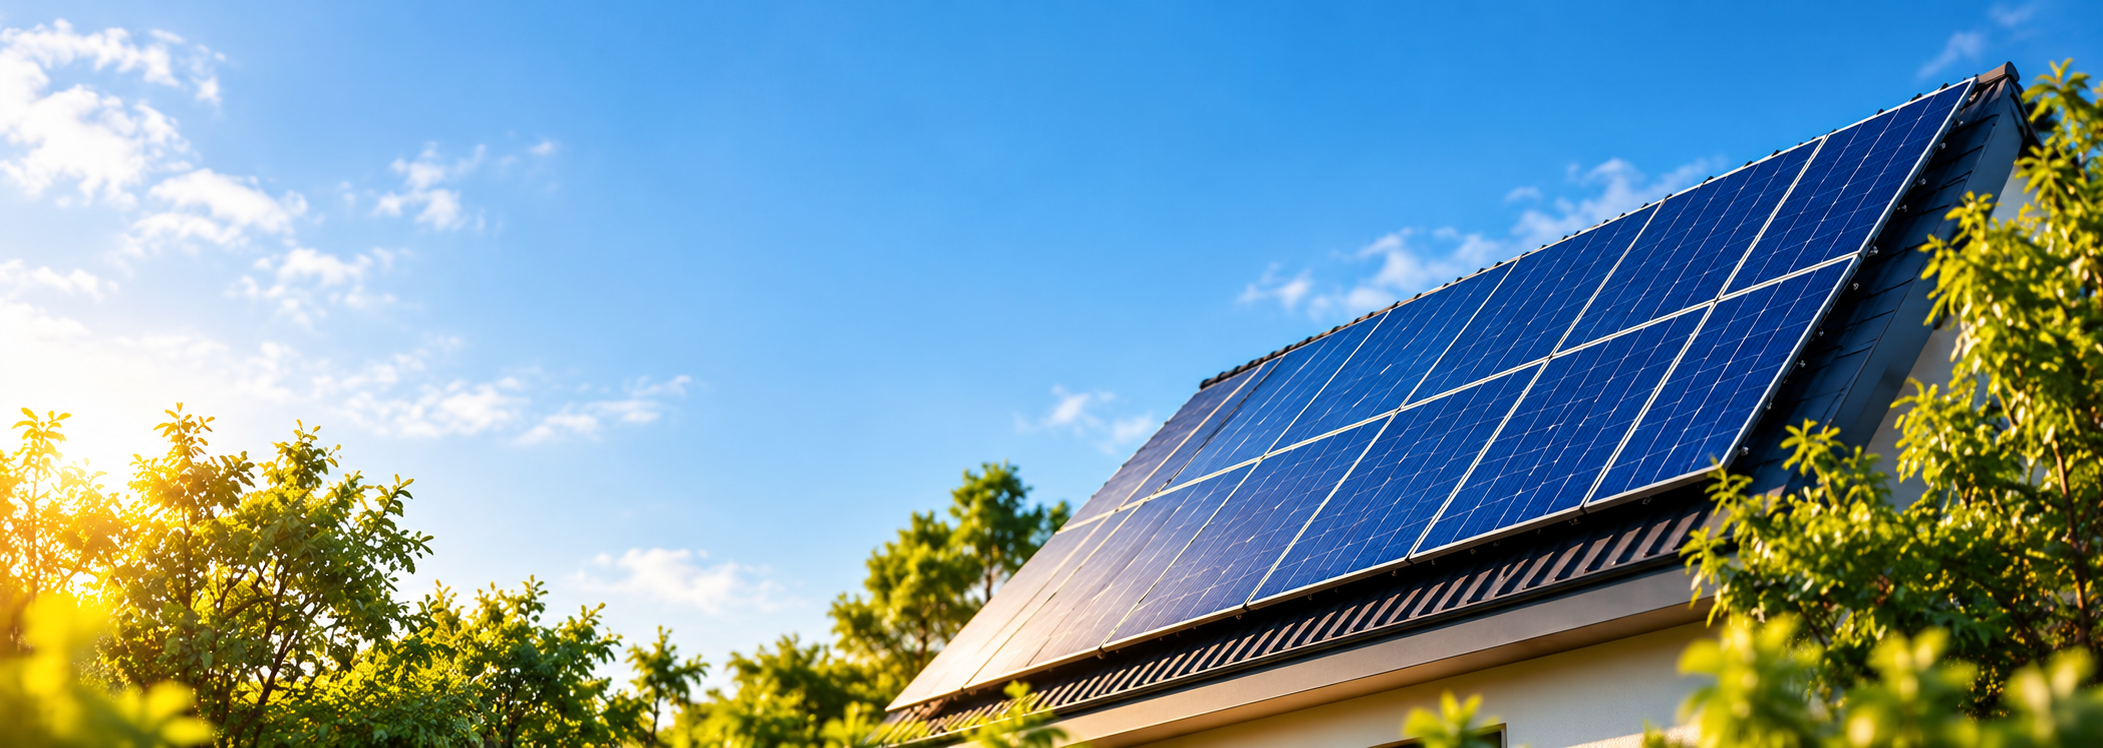
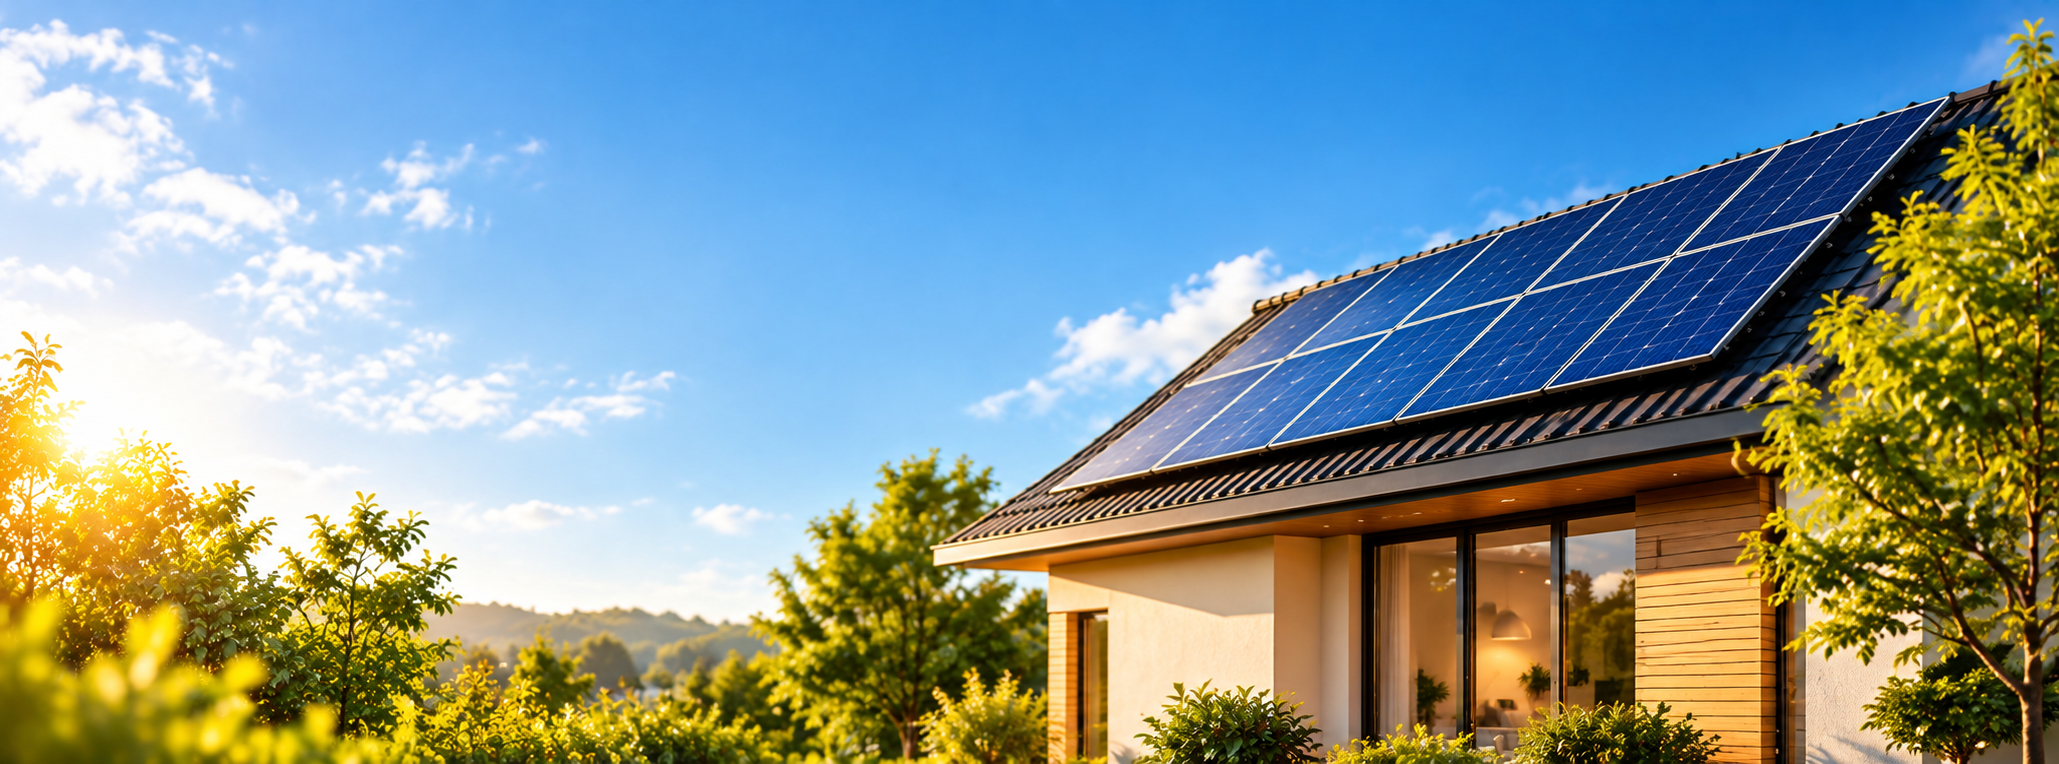
Melhorado segundo bloco

diff --git a/sunplease-site/src/styles/global.scss b/sunplease-site/src/styles/global.scss
@@ -539,6 +539,7 @@ body { background: $white; color: $ink; }
 	overflow: hidden;
 	padding-inline: max(1rem, calc((100% - #{$container}) / 2));
 	padding-bottom: .2rem;
+	padding-top: 1.2rem;
 	background:
 		linear-gradient(90deg, rgba($white, 1) 0%, rgba($white, .98) 54%, rgba($white, .72) 67%, rgba($white, 0) 82%),
 		url('/images/kingsun-layout/solucoes-paineis-residenciais.png') right top / auto 96% no-repeat;
@@ -548,7 +549,8 @@ body { background: $white; color: $ink; }
 	max-width: 540px;
 	margin: 0 0 .75rem;
 	color: $forest;
-	font-size: clamp(2.5rem, 4.2vw, 4.45rem);	
+	font-weight: 600;
+	font-size: clamp(2.2rem, 3.8vw, 3.4rem);	
 	text-transform: uppercase;
 }
 
@@ -591,17 +593,17 @@ body { background: $white; color: $ink; }
 	z-index: 1;
 	display: grid;
 	grid-template-columns: repeat(4, minmax(0, 1fr));
-	gap: 1.05rem;
-	margin-top: .45rem;
+	width: 80%;
+	gap: .65rem;	
 }
 
 .solution-card {
-	min-height: 160px;
+	width: 100%;
+	min-height: 140px;
 	padding: 1.1rem 1.05rem;
 	border: 1px solid rgba($ink, .08);
 	border-radius: 8px;
-	background: rgba($white, 1);
-	box-shadow: 0 16px 38px rgba($forest, .08);
+	background: rgba($white, 1);	
 }
 
 .solution-card__icon {
@@ -810,7 +812,10 @@ body { background: $white; color: $ink; }
 		align-self: start;
 	}
 
-	.solutions__cards { grid-template-columns: repeat(2, minmax(0, 1fr)); }
+	.solutions__cards {
+		width: 100%;
+		grid-template-columns: repeat(2, minmax(0, 1fr));
+	}
 	.advantages__copy { padding-bottom: 1rem; }
 	.advantages__photo figcaption { color: $white; text-shadow: 0 2px 10px rgba($navy-deep, .5); }
 }
